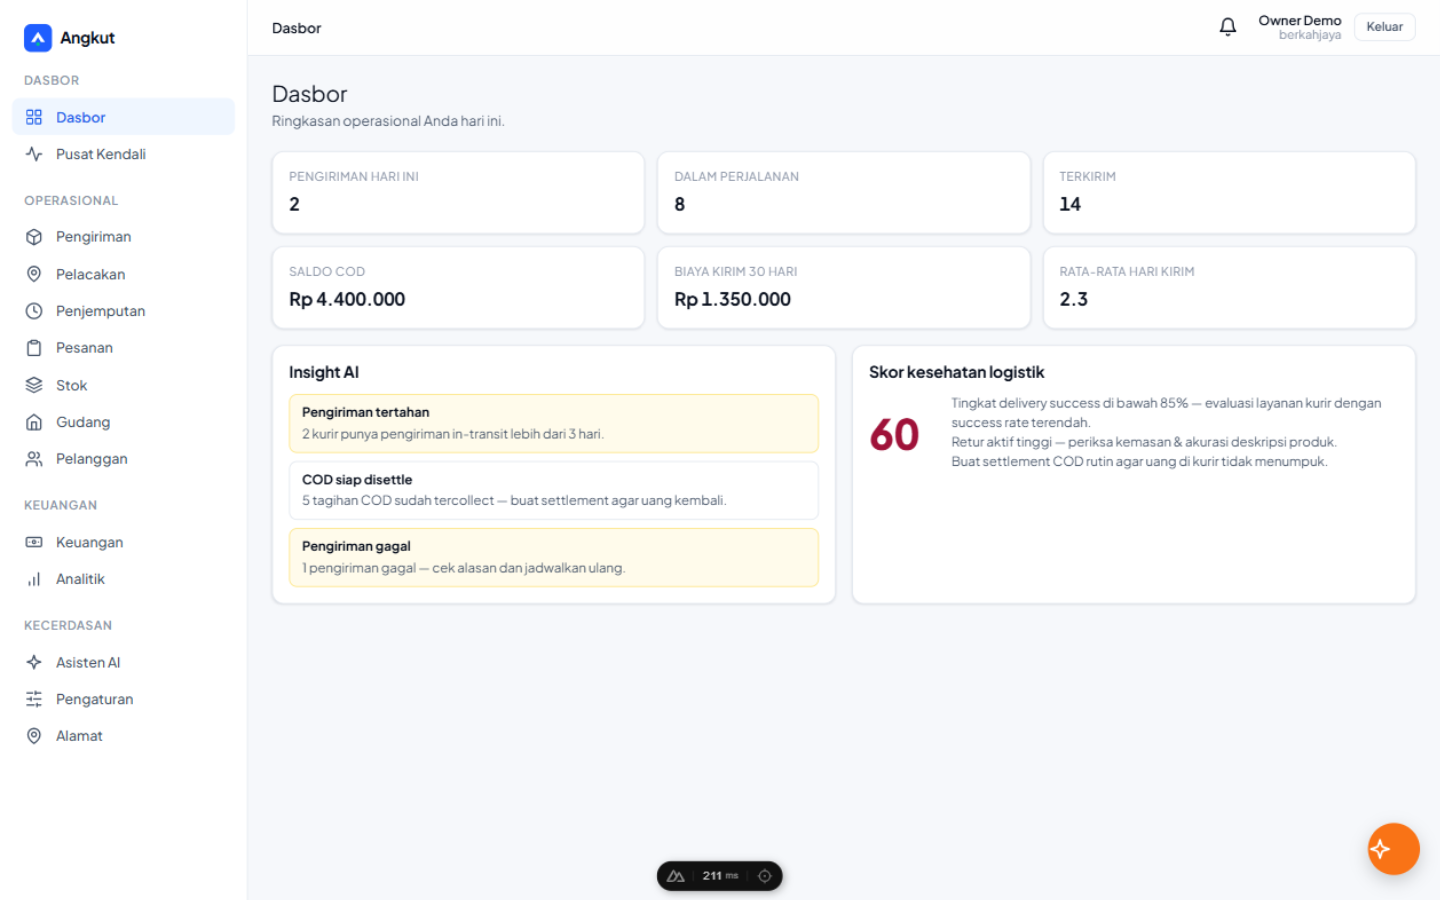
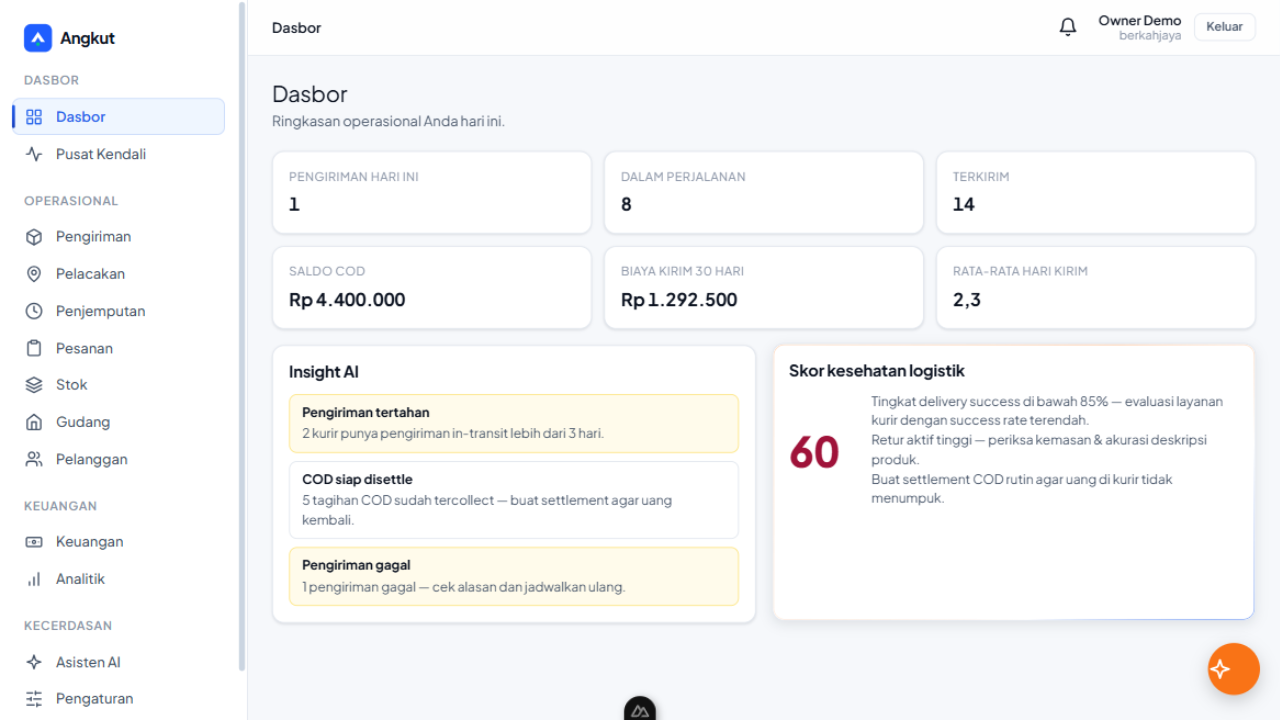
docs: perbarui galeri tangkapan layar (tambah landing & login baru)

diff --git a/README.md b/README.md
@@ -11,7 +11,17 @@
 
 ## Tampilan
 
-| Dasbor | Pusat Kendali |
+| Landing | Dasbor |
+| --- | --- |
+| ![Landing](docs/screenshots/landing.png) | ![Dasbor](docs/screenshots/dashboard.png) |
+| **Pusat Kendali** | **Pengiriman & Label** |
+| ![Pusat Kendali](docs/screenshots/command-center.png) | ![Pengiriman](docs/screenshots/shipments.png) |
+| **Keuangan (COD & Buku Besar)** | **Pesanan** |
+| ![Keuangan](docs/screenshots/finance.png) | ![Pesanan](docs/screenshots/orders.png) |
+| **Inventory Multi-Gudang** | **Lacak Publik** |
+| ![Inventory](docs/screenshots/inventory.png) | ![Lacak](docs/screenshots/tracking.png) |
+| **Asisten AI** | **Masuk** |
+| ![Asisten AI](docs/screenshots/ai.png) | ![Masuk](docs/screenshots/login.png) |
 | --- | --- |
 | ![Dasbor](docs/screenshots/dashboard.png) | ![Pusat Kendali](docs/screenshots/command-center.png) |
 | **Pengiriman & Label** | **Keuangan (COD & Buku Besar)** |
@@ -20,8 +30,6 @@
 | ![Pesanan](docs/screenshots/orders.png) | ![Inventory](docs/screenshots/inventory.png) |
 | **Lacak Publik** | **Asisten AI** |
 | ![Lacak](docs/screenshots/tracking.png) | ![Asisten AI](docs/screenshots/ai.png) |
-
-*Halaman login (split-screen):* ![Login](docs/screenshots/login.png)
 
 ## Fitur
 
